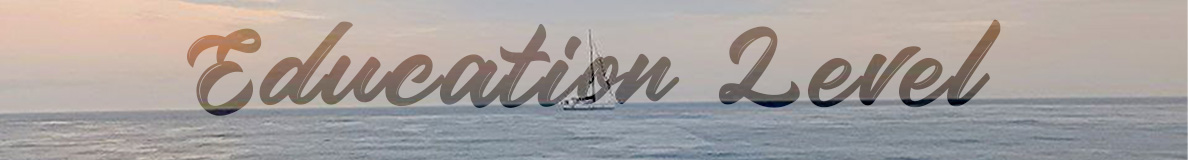
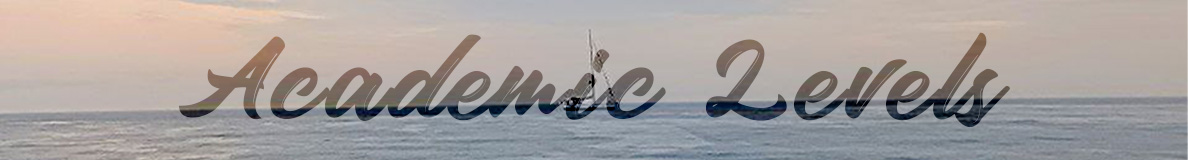
Add files via upload

Changed region(s): [[0.1246, 0.125, 0.8721, 0.8125]]

diff --git a/socials.html b/socials.html
@@ -4,9 +4,9 @@
 <head>
 	<meta charset="UTF-8" />
 	<title>Social Contacts</title>
-	<table width="90%" align="center" height="160px" cellspacing="6px">
+	<table width="90%" align="center" cellspacing="6px">
 		<tr>
-			<td background="image/banner6.jpg" height="160px" width="1187px"></td>
+			<td><img src="image/banner6.jpg"></td>
 		</tr>
 	</table>
 </head>
@@ -53,7 +53,7 @@
 				<h1><font size="7px" face="georgia"><u>Contact Me Through</u></font></h1>
 				<p><font size="5px" face="palatino"> Follow my Facebook&emsp;</font><a href="https://www.facebook.com/adam.536" target="_blank"><img src="image/facebook.png" width="45px" height="45px"></a></p>
 				<br>
-				<p><font size="5px"> Follow my Instagram&emsp;</font><a href="https://www.instagram.com/adam.536" target="_blank"><img src="image/Instagram.png" width="45px" height="45px"></a></p>
+				<p><font size="5px"> Follow my Instagram&emsp;</font><a href="https://www.instagram.com/adam.536" target="_blank"><img src="image/instagram.png" width="45px" height="45px"></a></p>
 				<br>
 				<p><font size="5px"> Subscribe to my Youtube channel&emsp;</font><a href="https://www.youtube.com/@adam.536" target="_blank"><img src="image/youtube.png" width="55px" height="40px"></a></p>
 				<br>
@@ -69,9 +69,9 @@
 </body>
 
 <footer>
-	<table width="90%" align="center" height="100px" cellspacing="6px">
+	<table width="90%" align="center" cellspacing="6px">
 		<tr>
-			<td bgcolor="#bae8e8">The information provided on this website is for general informational purposes only. It is not intended as legal, financial, or professional advice, and should not be relied upon as such.</td>
+			<td><img src="image/footer.jpg"></td>
 		</tr>
 	</table>
 </footer>

diff --git a/aboutme.html b/aboutme.html
@@ -4,9 +4,9 @@
 <head>
 	<meta charset="UTF-8" />
 	<title>About Me</title>
-	<table width="90%" align="center" height="160px" cellspacing="6px">
+	<table width="90%" align="center" cellspacing="6px">
 		<tr>
-			<td background="image/banner.jpg" height="160px" width="1187px"></td>
+			<td><img src="image/banner.jpg"></td>
 		</tr>
 	</table>
 </head>
@@ -17,6 +17,7 @@
 			<td bgcolor="#fff3d3" align="center"> 
 				<font face="georgia" size="5px"><h2><u>About Me</u></h2></font>
 				<font face="palatino" size="5px">
+					<p>Name: Adam Bin Azhar</p>
 					<p>Title: My Resume</p>
 					<p>Student ID: 2022753019</p>
 					<p>Group: IM2452ST1</p>
@@ -25,9 +26,9 @@
 					<p>Program code: IM245</p>
 					<p>Faculty: Faculty of Information Management</p>
 					<p>Submission date: 2 January 2022</p>
-					<p>Published URL: </p>
+					<p>Published URL: https://apecx0.github.io/MyResume/</p>
 					<p>Your image: </p></font>
-				<img src="C:\Users\USER\Desktop\Resume\image\adam2.jpg" width="240" height="300" vspace="10px">
+				<img src="image\adam2.jpg" width="240" height="300" vspace="10px">
 				<br>
 				<a href="index.html">Back to Home</a>
 			</td>
@@ -37,9 +38,9 @@
 </body>
 
 <footer>
-	<table width="90%" align="center" height="100px" cellspacing="6px">
+	<table width="90%" align="center" cellspacing="6px">
 		<tr>
-			<td bgcolor="#bae8e8">this is my foot</td>
+			<td><img src="image/footer.jpg"></td>
 		</tr>
 	</table>
 </footer>

diff --git a/education.html b/education.html
@@ -4,9 +4,9 @@
 <head>
 	<meta charset="UTF-8" />
 	<title>Academic Levels</title>
-	<table width="90%" align="center" height="160px" cellspacing="6px">
+	<table width="90%" align="center" cellspacing="6px">
 		<tr>
-			<td background="image/banner3.jpg" height="160px" width="1187px"></td>
+			<td><img src="image/banner3.jpg"></td>
 		</tr>
 	</table>
 </head>
@@ -50,7 +50,7 @@
 			</td>
 			
 			<td bgcolor="#fff3d3"> 
-				<p><font face="georgia"><u>Academic Levels</u></font></p>
+				<h1><font face="georgia"><u>Academic Levels</u></font></h1>
 				<font face="palatino" ><table width="90%" height="50%" align="center" border="1px">
 					<tr height="20%">
 						<th>QUALIFICATION</th>
@@ -102,9 +102,9 @@
 </body>
 
 <footer>
-	<table width="90%" align="center" height="100px" cellspacing="6px">
+	<table width="90%" align="center" cellspacing="6px">
 		<tr>
-			<td bgcolor="#bae8e8">this is my foot</td>
+			<td><img src="image/footer.jpg"></td>
 		</tr>
 	</table>
 </footer>

diff --git a/personal_details.html b/personal_details.html
@@ -4,9 +4,9 @@
 <head>
 	<meta charset="UTF-8" />
 	<title>Personal Details</title>
-	<table width="90%" align="center" height="160px" cellspacing="6px">
+	<table width="90%" align="center" cellspacing="6px">
 		<tr>
-			<td background="image/banner2.jpg" height="160px" width="1187px"></td>
+			<td><img src="image/banner2.jpg"></td>
 		</tr>
 	</table>
 </head>
@@ -69,9 +69,9 @@
 </body>
 
 <footer>
-	<table width="90%" align="center" height="100px" cellspacing="6px">
+	<table width="90%" align="center" cellspacing="6px">
 		<tr>
-			<td bgcolor="#bae8e8">this is my foot</td>
+			<td><img src="image/footer.jpg"></td>
 		</tr>
 	</table>
 </footer>

diff --git a/index.html b/index.html
@@ -4,9 +4,9 @@
 <head>
 	<meta charset="UTF-8" />
 	<title>Adam's Resume</title>
-	<table width="90%" align="center" height="160px" cellspacing="6px">
+	<table width="90%" align="center" cellspacing="6px">
 		<tr>
-			<td background="image/banner.jpg" height="160px" width="1187px"></td>
+			<td><img src="image/banner.jpg"></td>
 		</tr>
 	</table>
 </head>
@@ -63,9 +63,9 @@
 </body>
 
 <footer>
-	<table width="90%" align="center" height="100px" cellspacing="6px">
+	<table width="90%" align="center" cellspacing="6px">
 		<tr>
-			<td bgcolor="#bae8e8">this is my foot</td>
+			<td><img src="image/footer.jpg"></td>
 		</tr>
 	</table>
 </footer>

diff --git a/skills.html b/skills.html
@@ -4,9 +4,9 @@
 <head>
 	<meta charset="UTF-8" />
 	<title>My Skills</title>
-	<table width="90%" align="center" height="160px" cellspacing="6px">
+	<table width="90%" align="center" cellspacing="6px">
 		<tr>
-			<td background="image/banner5.jpg" height="160px" width="1187px"></td>
+			<td><img src="image/banner5.jpg"></td>
 		</tr>
 	</table>
 </head>
@@ -100,9 +100,9 @@
 </body>
 
 <footer>
-	<table width="90%" align="center" height="100px" cellspacing="6px">
+	<table width="90%" align="center" cellspacing="6px">
 		<tr>
-			<td bgcolor="#bae8e8">this is my foot</td>
+			<td><img src="image/footer.jpg"></td>
 		</tr>
 	</table>
 </footer>

diff --git a/career.html b/career.html
@@ -4,9 +4,9 @@
 <head>
 	<meta charset="UTF-8" />
 	<title>Careers</title>
-	<table width="90%" align="center" height="160px" cellspacing="6px">
+	<table width="90%" align="center" cellspacing="6px">
 		<tr>
-			<td background="image/banner4.jpg" height="160px" width="1187px"></td>
+			<td><img src="image/banner4.jpg"></td>
 		</tr>
 	</table>
 </head>
@@ -71,9 +71,9 @@
 </body>
 
 <footer>
-	<table width="90%" align="center" height="100px" cellspacing="6px">
+	<table width="90%" align="center" cellspacing="6px">
 		<tr>
-			<td bgcolor="#bae8e8">this is my foot</td>
+			<td><img src="image/footer.jpg"></td>
 		</tr>
 	</table>
 </footer>
